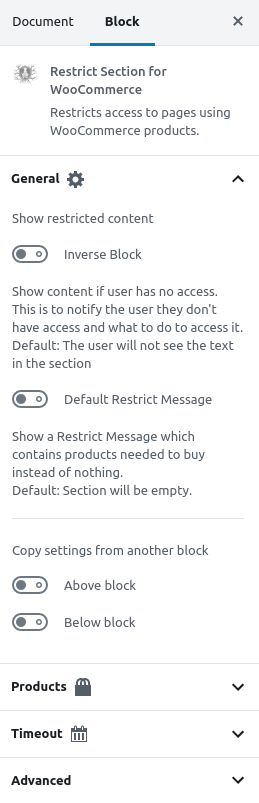
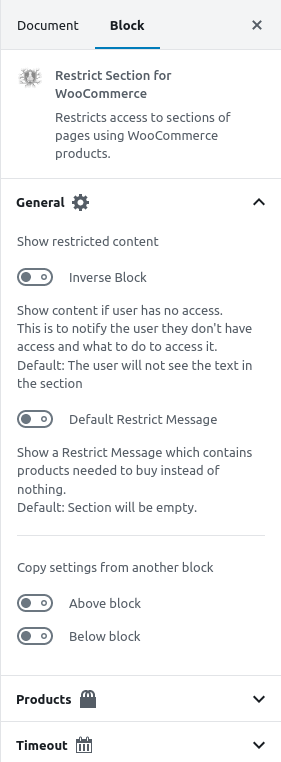
Fix texts, their screenshots and translations.

diff --git a/admin/assets/js/block-section-restrict.js b/admin/assets/js/block-section-restrict.js
@@ -26,7 +26,7 @@
 
 	registerBlockType(prwc_blockName, {
 		title: 		 __('Restrict Section for WooCommerce', 'page_restrict_domain'),
-		description: __('Restricts access to pages using WooCommerce products.', 'page_restrict_domain'),
+		description: __('Restricts access to sections of pages using WooCommerce products.', 'page_restrict_domain'),
 		icon: 		 icon,
 		category: 	 'layout',
 		keywords: 	 ['restrict Section for WooCommerce'],
